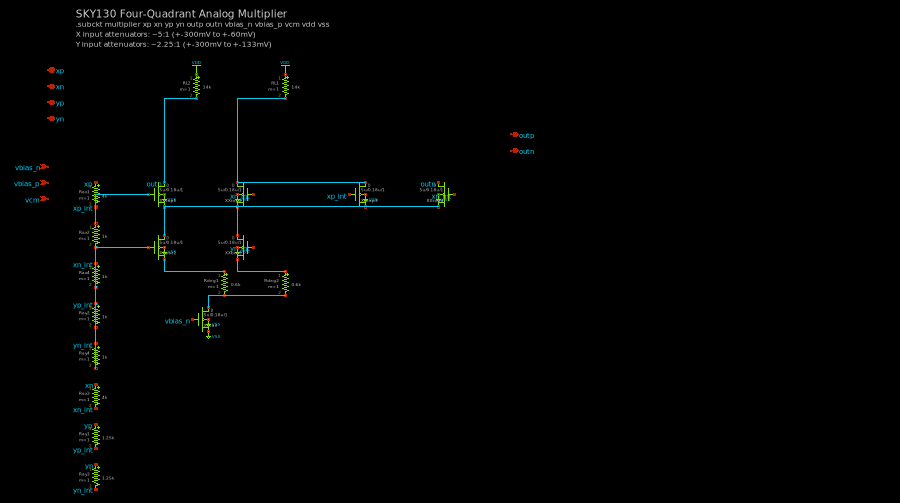
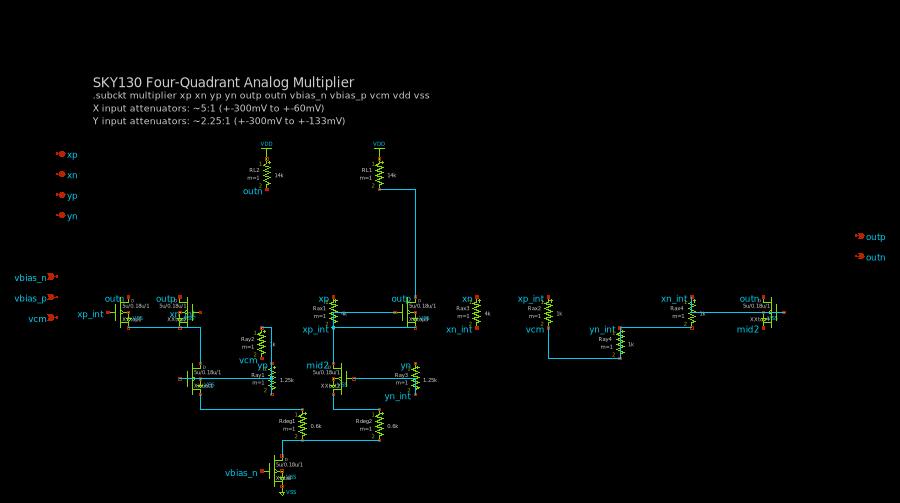
Input passives placed near signal connections, not in vertical stacks
- Input passives with placed neighbors on non-interface pin are now
  treated as inline passives (placed near centroid) instead of being
  stacked vertically on the left
- Major improvement for ode_multiplier: attenuator resistors now
  distributed near their transistor gates
- ode_integrator: input resistors near TG/cap connections

Aggregate score: 7.2/10. All 7 circuits at 0 wire crossings.

diff --git a/src/placer.py b/src/placer.py
@@ -702,7 +702,13 @@ def place_circuit(circuit: Circuit) -> PlacedCircuit:
         elif _has_placed_neighbors(circuit, name, "pin1", result) and _has_placed_neighbors(circuit, name, "pin2", result):
             inline_passives.append(name)
         elif circuit.interface_pins and (pin1_net in circuit.interface_pins or pin2_net in circuit.interface_pins):
-            input_passives.append(name)
+            # If the non-interface pin has placed neighbors, treat as inline
+            if pin1_net in circuit.interface_pins and _has_placed_neighbors(circuit, name, "pin2", result):
+                inline_passives.append(name)
+            elif pin2_net in circuit.interface_pins and _has_placed_neighbors(circuit, name, "pin1", result):
+                inline_passives.append(name)
+            else:
+                input_passives.append(name)
         else:
             other_passives.append(name)
 
